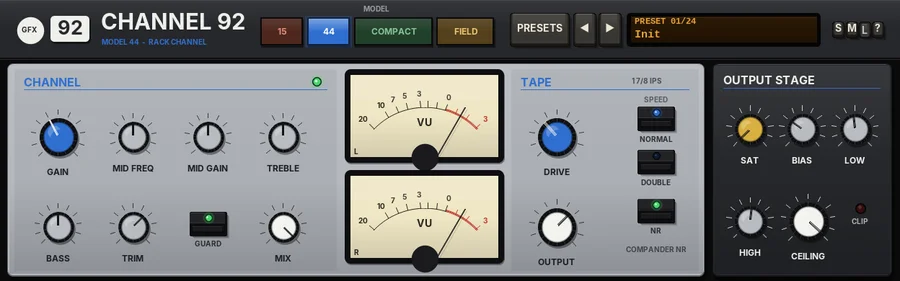
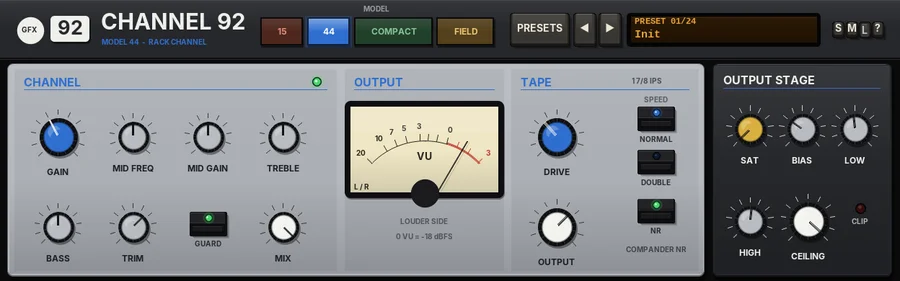
Channel 92: COMPACT automatic mono centre dip, no BAL/LEVEL; one VU on 15/44; manual and images
Claude-Session: https://claude.ai/code/session_01EwsggPNgywXX6HG8VAWiaU

Changed region(s): [[0.3733, 0.2278, 0.56, 0.968]]

diff --git a/Manuals/gfx-channel-92.html b/Manuals/gfx-channel-92.html
@@ -47,14 +47,14 @@ footer{border-top:1px solid var(--line);margin-top:40px;padding:24px 0 40px;colo
 <div class="shot"><img src="img/gfx-channel-92.webp" alt="The Channel 92 panel" loading="lazy"></div>
 <h2>Overview</h2><p>Channel 92 is the channel strip of the GFX 92 series: 90s domestic, portable and field gear - utilitarian, compact and mobile. It holds four channel strips in one chassis, and the MODEL keys choose which one is in the circuit:</p><ul><li><strong>15</strong> - the lo-fi channel, in the spirit of the early-80s ultra-portable cassette multitrackers (Model 15).</li><li><strong>44</strong> - the rack tape channel, in the spirit of the early-90s rack-mount cassette portable studios (Model 44).</li><li><strong>COMPACT</strong> - one channel of the little 12-channel desk from every 90s project studio, as a stereo channel strip (Compact 12), with a one-knob compressor.</li><li><strong>FIELD</strong> - one input channel of a battery-powered location mixer (Field 42).</li></ul><p>Each model is the original GFX plug-in, sample for sample: set the same controls and Channel 92 sounds exactly like Model 15, Model 44, one channel of Compact 12 or Field 42 (it nulls against them, with the output clip as described below). Each keeps its own faceplate, controls and layout; the 92 chassis around them adds the shared header, the presets and the output stage. Only the selected model runs, so it costs no more CPU than the original on its own.</p><h3>Reach for it for</h3><ul class="when"><li>Lo-fi cassette character on single tracks and stems (15)</li><li>Tape density and punch with a sweepable mid (44)</li><li>A clean, slightly forward desk channel with simple EQ and a one-knob compressor, or a gritty one with HOT (COMPACT)</li><li>A transformer mic pre with HPF and safety limiters for dialogue, acoustic and drum tracks (FIELD)</li><li>Trying four flavours of 90s gear on a track without swapping plug-ins</li></ul><h2>Controls</h2><h3>The 92 chassis</h3><p class="sub"><strong>The header</strong></p><dl class="ctl"><dt>92 badge, name</dt><dd>The series badge and the plug-in name; under the name, in the colour of the selected model, which model is in the circuit.</dd><dt>MODEL</dt><dd>15, 44, COMPACT or FIELD. Lit coloured keys: the lit key is the model in use (15 by default). Changing model crossfades over 20 ms, so it is click-free even while the music plays; the model you switch to starts from a clean state.</dd><dt>PRESETS</dt><dd>Opens the list of all 24 factory presets (a click on the preset display does the same). The list ends with Reset all to defaults.</dd><dt>&#9668; / &#9658;</dt><dd>Step to the previous or next preset.</dd><dt>Preset display</dt><dd>Shows the number and name of the preset in use. New instances open on Init.</dd><dt>S / M / L</dt><dd>Panel size: small, medium or large (Large is 1.3 times Medium). The panel also scales to fit the plugin window.</dd><dt>?</dt><dd>Opens a pop-up with the design credit, the GFX website address and the address of this manual. Click anywhere to close it.</dd></dl><p class="sub"><strong>OUTPUT STAGE</strong></p><p>The house output stage of the 15 and the 44, in the column at the right of their faceplates: it sits after the model, so it stays as it is when you change between them. Their own OUTPUT level comes after the band saturation, exactly as on the originals. Its soft clipper is always on (no latency); there are no mode keys. COMPACT shares only the CEILING (on its own faceplate, no band saturation); FIELD has no output stage controls: its output always clips softly at -0.3 dBFS, as part of the unit.</p><dl class="ctl"><dt>SAT</dt><dd>Band saturation, 0 - 100% (off by default): only the lows and highs are saturated, the mids stay clean, with a soft curve that loosens as the level rises.</dd><dt>BIAS</dt><dd>Shapes the saturation, 0 - 100% (30% by default): more bias adds more even (2nd) harmonics, for a warmer, rounder colour.</dd><dt>LOW / HIGH</dt><dd>Where the low and high saturation bands start: 40 - 400 Hz (120 Hz by default) and 2 - 16 kHz (6 kHz by default).</dd><dt>CEILING</dt><dd>-24 to 0 dB (-0.3 dB by default): the level the peaks are softly clipped at. The clipper starts to round the peaks off about 2 dB below it; below that it does nothing.</dd><dt>CLIP light</dt><dd>Lights red while the clipper is working.</dd></dl><p class="sub"><strong>Parameter list</strong></p><p>Every control is also in REAPER's parameter list. The names start with the model they belong to (15 Gain, 44 Mid freq, FIELD HPF ...); the shared output stage comes last. FIELD Input iron and FIELD Limiter attack / release are in the list only, as on Field 42.</p><h2>Model 15 - lo-fi channel</h2><div class="shot"><img src="img/gfx-channel-92-15.webp" alt="Channel 92 with the 15 model selected" loading="lazy"></div><h3>Overview</h3><p>Model 15 is a single channel of the classic early-80s ultra-portable cassette multitracker: a low-voltage, battery-driven preamp, a fixed broad-stroke tone stage, a sluggish tape-head saturation with a top end that closes down as the level rises, and an open, breathing hiss floor with simple single-band noise reduction.</p><p>Put it on individual stems to push them towards that compressed, boxy, warm little-recorder sound. The signal runs preamp, then tone, then tape, and MIX blends the result with the dry input.</p>
 <p class="sub"><strong>Reach for it for</strong></p><ul class="when"><li>Bedroom-demo character on drums, guitars and vocals</li><li>Warm, boxy saturation that glues transients together</li><li>Lo-fi wobble, hiss and worn-tape dropouts</li><li>Making a clean stem sit with genuinely lo-fi material</li><li>Parallel tape colour with MIX</li></ul>
-<h3>Controls</h3><p class="sub"><strong>Channel</strong></p><dl class="ctl"><dt>Signal light</dt><dd>Glows green when audio is coming out of the plugin.</dd><dt>GAIN</dt><dd>The low-voltage preamp, -6 to +24 dB (+6 dB by default). Above 0 dB it clips early and asymmetrically, smearing transients and thickening the low mids.</dd><dt>TREBLE</dt><dd>A broad high shelf at 10 kHz, -10 to +10 dB. Push it hard and the shelf itself turns a little gritty and grainy rather than staying clean.</dd><dt>BASS</dt><dd>A broad low shelf at 100 Hz, -10 to +10 dB, with the same gentle grit when pushed.</dd><dt>TRIM</dt><dd>Input level before anything else, from -24 to +12 dB.</dd><dt>GUARD</dt><dd>On by default. Gently eases very hot sources down towards about -18 dBFS average and catches fast peaks above -6 dBFS, so loud sources never overdrive the plugin. It never boosts quiet sources.</dd><dt>MIX</dt><dd>The coloured signal against the dry input, 0 - 100%.</dd></dl><p class="sub"><strong>Meters</strong></p><dl class="ctl"><dt>L / R</dt><dd>VU meters showing the left and right output.</dd></dl><p class="sub"><strong>Tape</strong></p><dl class="ctl"><dt>DRIVE</dt><dd>The tape saturation, 0 - 100% (35% by default): a sluggish magnetic memory ahead of a soft saturation curve, plus a top end that rolls off further as the level rises, gluing transients together. A small, fixed head bump around 80 Hz is always there.</dd><dt>WOW</dt><dd>Wow and flutter in the transport, 0 - 100 (25 by default): a slow wow, a slower random wander and a faint 6 Hz flutter.</dd><dt>HISS</dt><dd>The tape's own noise floor, 0 - 100 (50 by default). It ducks a little under the signal and swells back in the gaps. Each side has its own hiss.</dd><dt>AGE</dt><dd>An older, worn tape, 0 - 100 (15 by default): the top end goes further and short dropouts creep in, more often the higher you turn it.</dd><dt>OUTPUT</dt><dd>The output level, -24 to +12 dB.</dd><dt>NR</dt><dd>The simple B-type-style noise reduction, in by default: the quiet highs are lifted before the tape and taken back down after it, which lowers the hiss. Out gives the raw tape, hiss and all.</dd></dl><h3>Tips</h3><ul class="tips"><li>GAIN and DRIVE do different things: GAIN gives the preamp's early, edgy clipping, DRIVE the softer tape squash and darkening. Try one high and the other low.</li><li>On a set of stems, keep WOW low on all but one or two so the mix doesn't drift out of tune with itself.</li><li>Switching NR out is the quickest way to that hissy, open home-recording sound.</li><li>Turn MIX down to 40 - 60% to keep the attack of drums while adding the tape's body.</li></ul>
+<h3>Controls</h3><p class="sub"><strong>Channel</strong></p><dl class="ctl"><dt>Signal light</dt><dd>Glows green when audio is coming out of the plugin.</dd><dt>GAIN</dt><dd>The low-voltage preamp, -6 to +24 dB (+6 dB by default). Above 0 dB it clips early and asymmetrically, smearing transients and thickening the low mids.</dd><dt>TREBLE</dt><dd>A broad high shelf at 10 kHz, -10 to +10 dB. Push it hard and the shelf itself turns a little gritty and grainy rather than staying clean.</dd><dt>BASS</dt><dd>A broad low shelf at 100 Hz, -10 to +10 dB, with the same gentle grit when pushed.</dd><dt>TRIM</dt><dd>Input level before anything else, from -24 to +12 dB.</dd><dt>GUARD</dt><dd>On by default. Gently eases very hot sources down towards about -18 dBFS average and catches fast peaks above -6 dBFS, so loud sources never overdrive the plugin. It never boosts quiet sources.</dd><dt>MIX</dt><dd>The coloured signal against the dry input, 0 - 100%.</dd></dl><p class="sub"><strong>OUTPUT</strong></p><dl class="ctl"><dt>VU</dt><dd>One VU meter for the output: it reads the louder side, in the house calibration (a sine peaking at -18 dBFS reads 0 VU). The green light at the top of the CHANNEL section glows when audio is coming out.</dd></dl><p class="sub"><strong>Tape</strong></p><dl class="ctl"><dt>DRIVE</dt><dd>The tape saturation, 0 - 100% (35% by default): a sluggish magnetic memory ahead of a soft saturation curve, plus a top end that rolls off further as the level rises, gluing transients together. A small, fixed head bump around 80 Hz is always there.</dd><dt>WOW</dt><dd>Wow and flutter in the transport, 0 - 100 (25 by default): a slow wow, a slower random wander and a faint 6 Hz flutter.</dd><dt>HISS</dt><dd>The tape's own noise floor, 0 - 100 (50 by default). It ducks a little under the signal and swells back in the gaps. Each side has its own hiss.</dd><dt>AGE</dt><dd>An older, worn tape, 0 - 100 (15 by default): the top end goes further and short dropouts creep in, more often the higher you turn it.</dd><dt>OUTPUT</dt><dd>The output level, -24 to +12 dB.</dd><dt>NR</dt><dd>The simple B-type-style noise reduction, in by default: the quiet highs are lifted before the tape and taken back down after it, which lowers the hiss. Out gives the raw tape, hiss and all.</dd></dl><h3>Tips</h3><ul class="tips"><li>GAIN and DRIVE do different things: GAIN gives the preamp's early, edgy clipping, DRIVE the softer tape squash and darkening. Try one high and the other low.</li><li>On a set of stems, keep WOW low on all but one or two so the mix doesn't drift out of tune with itself.</li><li>Switching NR out is the quickest way to that hissy, open home-recording sound.</li><li>Turn MIX down to 40 - 60% to keep the attack of drums while adding the tape's body.</li></ul>
 <h2>Model 44 - rack channel</h2><div class="shot"><img src="img/gfx-channel-92-44.webp" alt="Channel 92 with the 44 model selected" loading="lazy"></div><h3>Overview</h3><p>Model 44 is a single channel strip in the spirit of the early-90s rack-mount cassette multitrack gear. The signal goes through a clean, high-headroom preamp, a three-band EQ with a sweepable mid, and then a tape stage: a dense magnetic saturation ceiling with a NORMAL / DOUBLE speed switch and compander noise reduction.</p><p>The preamp itself stays clean - the colour and the ceiling come from the tape. Double speed raises that ceiling, extends the top end and tightens the sub-bass, for a punchier, cleaner sound; normal speed is softer, darker and saturates earlier. The noise reduction is tuned to pump less than the earlier 80s machines.</p>
 <p class="sub"><strong>Reach for it for</strong></p><ul class="when"><li>Adding cassette-tape density and warmth to a single track</li><li>Drums and bass that need to sit tighter and punchier (DOUBLE speed)</li><li>Quick tone shaping with a sweepable mid</li><li>A softer, darker lo-fi tone (NORMAL speed)</li><li>Parallel tape colour with MIX</li></ul>
-<h3>Controls</h3><p class="sub"><strong>CHANNEL</strong></p><dl class="ctl"><dt>Signal light</dt><dd>The green light glows when audio is coming out.</dd><dt>GAIN</dt><dd>The preamp gain, -6 to +24 dB (+6 dB by default). The preamp itself stays clean; turning it up drives the tape stage harder.</dd><dt>MID FREQ</dt><dd>The centre of the sweepable mid band, 200 Hz to 5 kHz.</dd><dt>MID GAIN</dt><dd>Cut or boost at MID FREQ, -12 to +12 dB, with a fixed, fairly broad width.</dd><dt>TREBLE</dt><dd>A high shelf at 12 kHz, -10 to +10 dB.</dd><dt>BASS</dt><dd>A low shelf at 80 Hz, -10 to +10 dB.</dd><dt>TRIM</dt><dd>Input level before anything else, from -24 to +12 dB.</dd><dt>GUARD</dt><dd>On by default. GUARD gently eases very hot sources down towards about -18 dBFS average and catches fast peaks above -6 dBFS, so loud sources never overdrive the plugin. It never boosts quiet sources. The light shows when it is on.</dd><dt>MIX</dt><dd>Blends the coloured signal with the dry input, 0 to 100%. 100% is fully through the strip.</dd></dl><p class="sub"><strong>Meters</strong></p><dl class="ctl"><dt>L / R</dt><dd>VU meters showing the left and right output.</dd></dl><p class="sub"><strong>TAPE</strong></p><dl class="ctl"><dt>DRIVE</dt><dd>How hard the tape's saturation ceiling works, 0 to 100% (35% by default). More DRIVE rounds the peaks off sooner and harder, for a denser sound.</dd><dt>NORMAL / DOUBLE</dt><dd>The tape SPEED. NORMAL (1 7/8 IPS): the top end rolls off around 10 kHz and the saturation starts earlier. DOUBLE (3 3/4 IPS): the ceiling sits higher, the top end reaches about 16 kHz, the sub-bass below about 45 Hz is tightened and transients stay punchier.</dd><dt>NR</dt><dd>Compander noise reduction, in by default. It compresses the signal 2:1 with a treble lift on the way onto the tape and expands it 1:2 coming back. Because the expander follows what comes off the tape, it breathes a little, though more gently than the 80s units. Switch it off for the raw tape sound.</dd><dt>OUTPUT</dt><dd>The output level, -24 to +12 dB.</dd></dl><h3>Tips</h3><ul class="tips"><li>Set GAIN for the amount of tape colour you want, then bring OUTPUT down to match the level before you judge it.</li><li>Switch between NORMAL and DOUBLE on drums: double speed keeps the snap, normal speed softens and thickens it.</li><li>With NR in and plenty of DRIVE you can hear the compander breathe; switch NR out if you want the saturation without the movement.</li><li>Use MIX at 30-60% to add tape density under a track without losing its transients.</li></ul>
+<h3>Controls</h3><p class="sub"><strong>CHANNEL</strong></p><dl class="ctl"><dt>Signal light</dt><dd>The green light glows when audio is coming out.</dd><dt>GAIN</dt><dd>The preamp gain, -6 to +24 dB (+6 dB by default). The preamp itself stays clean; turning it up drives the tape stage harder.</dd><dt>MID FREQ</dt><dd>The centre of the sweepable mid band, 200 Hz to 5 kHz.</dd><dt>MID GAIN</dt><dd>Cut or boost at MID FREQ, -12 to +12 dB, with a fixed, fairly broad width.</dd><dt>TREBLE</dt><dd>A high shelf at 12 kHz, -10 to +10 dB.</dd><dt>BASS</dt><dd>A low shelf at 80 Hz, -10 to +10 dB.</dd><dt>TRIM</dt><dd>Input level before anything else, from -24 to +12 dB.</dd><dt>GUARD</dt><dd>On by default. GUARD gently eases very hot sources down towards about -18 dBFS average and catches fast peaks above -6 dBFS, so loud sources never overdrive the plugin. It never boosts quiet sources. The light shows when it is on.</dd><dt>MIX</dt><dd>Blends the coloured signal with the dry input, 0 to 100%. 100% is fully through the strip.</dd></dl><p class="sub"><strong>OUTPUT</strong></p><dl class="ctl"><dt>VU</dt><dd>One VU meter for the output: it reads the louder side, in the house calibration (a sine peaking at -18 dBFS reads 0 VU). The green light at the top of the CHANNEL section glows when audio is coming out.</dd></dl><p class="sub"><strong>TAPE</strong></p><dl class="ctl"><dt>DRIVE</dt><dd>How hard the tape's saturation ceiling works, 0 to 100% (35% by default). More DRIVE rounds the peaks off sooner and harder, for a denser sound.</dd><dt>NORMAL / DOUBLE</dt><dd>The tape SPEED. NORMAL (1 7/8 IPS): the top end rolls off around 10 kHz and the saturation starts earlier. DOUBLE (3 3/4 IPS): the ceiling sits higher, the top end reaches about 16 kHz, the sub-bass below about 45 Hz is tightened and transients stay punchier.</dd><dt>NR</dt><dd>Compander noise reduction, in by default. It compresses the signal 2:1 with a treble lift on the way onto the tape and expands it 1:2 coming back. Because the expander follows what comes off the tape, it breathes a little, though more gently than the 80s units. Switch it off for the raw tape sound.</dd><dt>OUTPUT</dt><dd>The output level, -24 to +12 dB.</dd></dl><h3>Tips</h3><ul class="tips"><li>Set GAIN for the amount of tape colour you want, then bring OUTPUT down to match the level before you judge it.</li><li>Switch between NORMAL and DOUBLE on drums: double speed keeps the snap, normal speed softens and thickens it.</li><li>With NR in and plenty of DRIVE you can hear the compander breathe; switch NR out if you want the saturation without the movement.</li><li>Use MIX at 30-60% to add tape density under a track without losing its transients.</li></ul>
 <h2>FIELD - location preamp (Field 42)</h2><div class="shot"><img src="img/gfx-channel-92-field.webp" alt="Channel 92 with the FIELD model selected" loading="lazy"></div><h3>Overview</h3><p>Field 42 is one input channel of a small, battery-powered location mixer of the kind used for film and broadcast sound, for a single track. It works in mono or stereo, as REAPER decides. The signal runs as on the hardware: a sweepable high-pass filter, TRIM into a transformer-balanced preamp, a fixed input "safety" limiter, polarity, FADER and PAN, then the output limiter and the custom output transformer.</p><p>At normal levels it is very clean. Push TRIM and the input transformer thickens the low end before the preamp meets its rail; the limiters catch peaks hard and fast, as they were designed to protect a recording on location. Levels are lined up as on location gear: 0 dBu = -20 dBFS = 0 on the VU.</p>
 <p class="sub"><strong>Reach for it for</strong></p><ul class="when"><li>Dialogue, voice-over and location recordings</li><li>A clean, safe preamp-and-limiter on any track</li><li>Gentle iron weight on drums, bass and acoustic instruments</li><li>Catching stray peaks before they reach the mix</li></ul>
 <h3>Controls</h3><p class="sub"><strong>INPUT</strong></p><dl class="ctl"><dt>VU meter</dt><dd>The level after the preamp, before the limiters, with VU ballistics. 0 VU = -20 dBFS.</dd><dt>PEAK</dt><dd>Lights when the preamp's output goes above -1 dBFS.</dd><dt>IN LIM / OUT LIM</dt><dd>Light when the input or output limiter is working.</dd></dl><p class="sub"><strong>PREAMP</strong></p><dl class="ctl"><dt>HPF</dt><dd>A high-pass filter, 80 to 240 Hz, 12 dB per octave, before the preamp. Fully left is OFF.</dd><dt>TRIM</dt><dd>Gain into the preamp, -20 to +40 dB.</dd><dt>IN LIMIT</dt><dd>The input safety limiter: fixed at -2 dBFS (+18 dBu), 20:1, very fast. On by default.</dd><dt>Ø</dt><dd>Polarity reverse.</dd><dt>IRON</dt><dd>The input transformer's colour (also in the parameter list).</dd></dl><p class="sub"><strong>CHANNEL</strong></p><dl class="ctl"><dt>PAN</dt><dd>Constant loudness: +3 dB at hard left or right, as on the hardware. On a stereo track it works as a balance.</dd><dt>FADER</dt><dd>Unity at 0 dB; -40 dB (OFF) to +10 dB.</dd><dt>TONE</dt><dd>A line-up oscillator that replaces the signal. The next key picks 1 kHz, 400 Hz or 100 Hz; LEVEL sets -20 to +8 dBu (0 dBu = -20 dBFS).</dd></dl><p class="sub"><strong>OUTPUT</strong></p><dl class="ctl"><dt>OFF / ON / LINK</dt><dd>The output limiter: off, each side on its own, or stereo-linked (the default).</dd><dt>LIMIT</dt><dd>The output limiter's threshold, +4 to +20 dBu (-16 to 0 dBFS), 20:1.</dd><dt>IRON</dt><dd>The output transformer: low-mid weight and a softer top when driven.</dd><dt>DRIFT</dt><dd>See Drift below.</dd><dt>OUT meters</dt><dd>The output level, left and right.</dd></dl><p class="sub"><strong>Parameter list only</strong></p><p>FIELD Input iron (the input transformer's colour, 30% by default) and FIELD Limiter attack and release (1 ms and 200 ms by default).</p><p class="sub"><strong>Drift</strong></p><p>DRIFT (0 - 100%, 50% by default) is battery sag. The supply voltage wanders slowly and droops under heavy, sustained level, so the preamp's headroom, the limiter thresholds and the transformers' drive all move a little - you hear it most when the unit is pushed. 50% is the standard amount, 100% twice that; 0% is a fresh battery.</p>
 <h3>Tips</h3><ul class="tips"><li>Set TRIM so the VU swings around 0 on the loud parts; that is where the iron starts to colour.</li><li>Use the TONE to line up levels between tracks or with other gear.</li><li>LINK keeps a stereo image steady under limiting; ON lets each side limit on its own.</li></ul>
-<p class="sub"><strong>Output</strong></p><p>The output always clips softly at -0.3 dBFS (the house clip at its default ceiling, no band saturation): it is part of the unit, with no controls. The TRIM glides to a new setting over about 20 ms, so turning it never clicks.</p><h2>COMPACT - desk channel (Compact 12)</h2><div class="shot"><img src="img/gfx-channel-92-compact.webp" alt="Channel 92 with the COMPACT model selected" loading="lazy"></div><h3>Overview</h3><p>One channel of the Compact 12 desk as a stereo channel strip: the desk's own channel circuit (its EQ, balance and LEVEL) on both sides, then the desk's summing amp with MAIN MIX, HOT and NOISE, so a track gets the clean, tight, slightly forward sound of the little desk - or its gritty edge when you run it hot. A mono source simply arrives as the same signal on both sides. A one-knob compressor, as on many compact desks (the same design as on Strip 102), sits after the EQ. With MID and COMP at 0 it sounds exactly like a stereo pair of Compact 12 summed on its own; with a mono source it sounds like a mono channel of the desk 3 dB louder at the centre (the desk pans its mono channels with constant power, the strip balances like the desk's stereo pairs).</p><h3>Reach for it for</h3><ul class="when"><li>Clean, honest channel EQ with a touch of desk character</li><li>Grit and bite on drums and bass with HOT</li><li>Quick, even level on vocals and guitars with the one-knob COMP</li><li>Stereo keys and synths through a stereo desk channel</li></ul><h3>Controls</h3><p class="sub"><strong>CHANNEL</strong></p><dl class="ctl"><dt>HI</dt><dd>A high shelf at 12 kHz, -15 to +15 dB.</dd><dt>MID</dt><dd>A peak at 2.5 kHz, -12 to +12 dB.</dd><dt>LOW</dt><dd>A low shelf at 80 Hz, -15 to +15 dB.</dd><dt>COMP</dt><dd>The one-knob compressor, 0 - 10 (0 = off, the default). Turning it up lowers the threshold (0 to -30 dB), raises the ratio (1:1 to 10:1) and adds make-up gain, so at normal levels (around -17 dBFS RMS) the overall level stays the same within about 1 dB however far you turn it. The detector hears both sides together. The small LED lights when it is taking off more than 1 dB.</dd><dt>SIGNAL</dt><dd>Glows green when signal arrives (and LEVEL is not off).</dd><dt>BAL</dt><dd>The balance, -100 to +100, as on the desk's stereo pairs: the centre leaves both sides at full level, turning it lowers the other side.</dd><dt>LEVEL</dt><dd>The channel level, -60 dB (OFF) to +10 dB, 0 dB by default.</dd></dl><p class="sub"><strong>MAIN MIX</strong></p><dl class="ctl"><dt>Meters</dt><dd>12-LED meters for the left and right output, 0 = 0 VU = -18 dBFS.</dd><dt>MAIN MIX</dt><dd>The desk's main level, -60 dB (OFF) to +10 dB, into its summing amp.</dd><dt>HOT</dt><dd>Drives the summing amp into its rails: grit, edge and a little bite, level-matched.</dd><dt>NOISE</dt><dd>Adds the desk's own hiss floor, about -84 dBFS.</dd><dt>CEILING</dt><dd>The level of the always-on soft clip at the output, -24 to 0 dB (-0.3 dB by default; shared with the 15 and the 44).</dd><dt>CLIP</dt><dd>Lights red while the clip is working.</dd></dl><h3>Tips</h3><ul class="tips"><li>HOT on a drum bus or bass is the classic 90s project-studio grit; switch it in and out to hear it.</li><li>COMP between 2 and 4 evens out a vocal or acoustic guitar without sounding squashed; past 7 it pumps on purpose.</li><li>Mute and solo the track in REAPER as usual: the strip has no MUTE of its own.</li></ul><h2>Presets</h2><p>Every preset of the three originals, named by model. Choosing one also selects its model. Like the originals, presets leave the output stage (and the controls each original left alone) as they are.</p><dl class="ctl"><dt>Init</dt><dd>The 15 at its default settings: the state a new instance opens in.</dd><dt>15: Bedroom Demo</dt><dd>The standard setting with a touch more TREBLE, BASS and DRIVE, NR in.</dd><dt>15: Hot and Boxy</dt><dd>The preamp pushed to +15 dB into 70% tape drive, with more hiss and age.</dd><dt>15: No NR, Open Tape</dt><dd>Noise reduction out and the hiss turned well up.</dd><dt>15: Worn-out Portable</dt><dd>Heavy wow, lots of age and dropouts, a little extra bass.</dd><dt>15: Clean-ish Portable</dt><dd>Preamp at 0 dB, light drive, wow, hiss and age.</dd><dt>44: Clean Double Speed</dt><dd>Double speed with light drive, a small treble lift and NR in.</dd><dt>44: Normal Speed Warm</dt><dd>Normal speed, more gain, a little low-mid and bass lift, NR in.</dd><dt>44: Rack Punch</dt><dd>Double speed, 14 dB of gain and 55% drive, with a 2.5 kHz and treble lift.</dd><dt>44: Scooped Mids</dt><dd>Double speed with a 4 dB cut at 600 Hz and a touch of treble and bass.</dd><dt>44: No NR</dt><dd>Normal speed with the noise reduction out: the raw tape.</dd><dt>COMPACT: Clean Channel</dt><dd>Flat EQ, COMP off, HOT and NOISE off, MAIN MIX at 0 dB.</dd><dt>COMPACT: Hot Channel</dt><dd>Flat, with HOT on: the summing amp pushed into its rails.</dd><dt>COMPACT: Hot and Noisy</dt><dd>HOT and the desk NOISE: the real thing.</dd><dt>COMPACT: Vocal Presence</dt><dd>HI +2, MID +3, LOW -3 dB with COMP at 4: forward and even.</dd><dt>COMPACT: Keys</dt><dd>HI +2, LOW +1 dB, a light COMP at 2.</dd><dt>FIELD: Init</dt><dd>Clean: HPF off, unity gain, both limiters on.</dd><dt>FIELD: Dialogue Boom</dt><dd>HPF at 120 Hz, +6 dB.</dd><dt>FIELD: Lavalier</dt><dd>HPF at 160 Hz to clear clothing rustle and rumble.</dd><dt>FIELD: Acoustic</dt><dd>HPF at 85 Hz, a little more iron.</dd><dt>FIELD: Drum Room</dt><dd>+12 dB into the iron, output limiter at +14 dBu.</dd><dt>FIELD: Kick and Bass</dt><dd>HPF off, heavy iron, limiter per side.</dd><dt>FIELD: Hot Field</dt><dd>+18 dB, lots of iron, a low output limit: dense and driven.</dd><dt>FIELD: Safety Net</dt><dd>Unity gain with the output limiter at +10 dBu: a quiet, safe ceiling.</dd><dt>Reset all to defaults</dt><dd>(Last in the list.) Every control of every model, the MODEL (back to 15) and the output stage to their starting values.</dd></dl><p>Changing preset on the 15 is click-free: the tape ducks out for a moment, the new settings come in at silence and it fades back in (as on Model 15).</p><h2>Tips</h2><ul class="tips"><li>To compare the models on a track, set the OUTPUT (15 / 44) or FADER (FIELD) so they play at the same level, then switch MODEL while the track loops: the 20 ms crossfade makes it a fair A/B.</li><li>Each model remembers its own settings while you use another, so you can set them all up and pick the one that fits.</li><li>The output stage stays put when you change between 15 and 44; the soft clip is always there as a safety net on every model.</li><li>Only FIELD drifts (battery sag); the 15 has its own wow and flutter instead.</li></ul>
+<p class="sub"><strong>Output</strong></p><p>The output always clips softly at -0.3 dBFS (the house clip at its default ceiling, no band saturation): it is part of the unit, with no controls. The TRIM glides to a new setting over about 20 ms, so turning it never clicks.</p><h2>COMPACT - desk channel (Compact 12)</h2><div class="shot"><img src="img/gfx-channel-92-compact.webp" alt="Channel 92 with the COMPACT model selected" loading="lazy"></div><h3>Overview</h3><p>One channel of the Compact 12 desk as a stereo channel strip: the desk's own channel EQ on both sides, then the desk's summing amp with MAIN MIX, HOT and NOISE, so a track gets the clean, tight, slightly forward sound of the little desk - or its gritty edge when you run it hot. Level, pan, mute and solo are left to REAPER's track. A one-knob compressor, as on many compact desks (the same design as on Strip 102), sits after the EQ.</p><p>Mono or stereo is automatic. When the two sides carry the same signal (a mono source) the strip treats it as one of the desk's mono channels and sits it 3 dB down, as the desk does at the centre of its pan; a stereo source passes at full level, as on the desk's stereo pairs. The change glides in or out over about 50 ms, so it never clicks. With COMP at 0 it sounds exactly like that mono channel, or that stereo pair, of Compact 12 summed on its own (with MID at 0 for a stereo pair, which has no MID on the desk).</p><h3>Reach for it for</h3><ul class="when"><li>Clean, honest channel EQ with a touch of desk character</li><li>Grit and bite on drums and bass with HOT</li><li>Quick, even level on vocals and guitars with the one-knob COMP</li><li>Stereo keys and synths through a stereo desk channel</li></ul><h3>Controls</h3><p class="sub"><strong>CHANNEL</strong></p><dl class="ctl"><dt>HI</dt><dd>A high shelf at 12 kHz, -15 to +15 dB.</dd><dt>MID</dt><dd>A peak at 2.5 kHz, -12 to +12 dB.</dd><dt>LOW</dt><dd>A low shelf at 80 Hz, -15 to +15 dB.</dd><dt>COMP</dt><dd>The one-knob compressor, 0 - 10 (0 = off, the default). Turning it up lowers the threshold (0 to -30 dB), raises the ratio (1:1 to 10:1) and adds make-up gain, so at normal levels (around -17 dBFS RMS) the overall level stays the same within about 1 dB however far you turn it. The detector hears both sides together.</dd><dt>SIGNAL</dt><dd>Glows green when signal arrives.</dd><dt>MONO -3 dB</dt><dd>Lights while the strip hears a mono source and applies the desk's 3 dB centre dip.</dd><dt>COMP (light)</dt><dd>Lights when the compressor is taking off more than 1 dB.</dd></dl><p class="sub"><strong>MAIN MIX</strong></p><dl class="ctl"><dt>Meters</dt><dd>12-LED meters for the left and right output, 0 = 0 VU = -18 dBFS.</dd><dt>MAIN MIX</dt><dd>The desk's main level, -60 dB (OFF) to +10 dB, into its summing amp.</dd><dt>HOT</dt><dd>Drives the summing amp into its rails: grit, edge and a little bite, level-matched.</dd><dt>NOISE</dt><dd>Adds the desk's own hiss floor, about -84 dBFS.</dd><dt>CEILING</dt><dd>The level of the always-on soft clip at the output, -24 to 0 dB (-0.3 dB by default; shared with the 15 and the 44).</dd><dt>CLIP</dt><dd>Lights red while the clip is working.</dd></dl><h3>Tips</h3><ul class="tips"><li>HOT on a drum bus or bass is the classic 90s project-studio grit; switch it in and out to hear it.</li><li>COMP between 2 and 4 evens out a vocal or acoustic guitar without sounding squashed; past 7 it pumps on purpose.</li><li>Set the level, pan and mutes on REAPER's track as usual: the strip has no LEVEL, BAL or MUTE of its own.</li></ul><h2>Presets</h2><p>Every preset of the three originals, named by model. Choosing one also selects its model. Like the originals, presets leave the output stage (and the controls each original left alone) as they are.</p><dl class="ctl"><dt>Init</dt><dd>The 15 at its default settings: the state a new instance opens in.</dd><dt>15: Bedroom Demo</dt><dd>The standard setting with a touch more TREBLE, BASS and DRIVE, NR in.</dd><dt>15: Hot and Boxy</dt><dd>The preamp pushed to +15 dB into 70% tape drive, with more hiss and age.</dd><dt>15: No NR, Open Tape</dt><dd>Noise reduction out and the hiss turned well up.</dd><dt>15: Worn-out Portable</dt><dd>Heavy wow, lots of age and dropouts, a little extra bass.</dd><dt>15: Clean-ish Portable</dt><dd>Preamp at 0 dB, light drive, wow, hiss and age.</dd><dt>44: Clean Double Speed</dt><dd>Double speed with light drive, a small treble lift and NR in.</dd><dt>44: Normal Speed Warm</dt><dd>Normal speed, more gain, a little low-mid and bass lift, NR in.</dd><dt>44: Rack Punch</dt><dd>Double speed, 14 dB of gain and 55% drive, with a 2.5 kHz and treble lift.</dd><dt>44: Scooped Mids</dt><dd>Double speed with a 4 dB cut at 600 Hz and a touch of treble and bass.</dd><dt>44: No NR</dt><dd>Normal speed with the noise reduction out: the raw tape.</dd><dt>COMPACT: Clean Channel</dt><dd>Flat EQ, COMP off, HOT and NOISE off, MAIN MIX at 0 dB.</dd><dt>COMPACT: Hot Channel</dt><dd>Flat, with HOT on: the summing amp pushed into its rails.</dd><dt>COMPACT: Hot and Noisy</dt><dd>HOT and the desk NOISE: the real thing.</dd><dt>COMPACT: Vocal Presence</dt><dd>HI +2, MID +3, LOW -3 dB with COMP at 4: forward and even.</dd><dt>COMPACT: Keys</dt><dd>HI +2, LOW +1 dB, a light COMP at 2.</dd><dt>FIELD: Init</dt><dd>Clean: HPF off, unity gain, both limiters on.</dd><dt>FIELD: Dialogue Boom</dt><dd>HPF at 120 Hz, +6 dB.</dd><dt>FIELD: Lavalier</dt><dd>HPF at 160 Hz to clear clothing rustle and rumble.</dd><dt>FIELD: Acoustic</dt><dd>HPF at 85 Hz, a little more iron.</dd><dt>FIELD: Drum Room</dt><dd>+12 dB into the iron, output limiter at +14 dBu.</dd><dt>FIELD: Kick and Bass</dt><dd>HPF off, heavy iron, limiter per side.</dd><dt>FIELD: Hot Field</dt><dd>+18 dB, lots of iron, a low output limit: dense and driven.</dd><dt>FIELD: Safety Net</dt><dd>Unity gain with the output limiter at +10 dBu: a quiet, safe ceiling.</dd><dt>Reset all to defaults</dt><dd>(Last in the list.) Every control of every model, the MODEL (back to 15) and the output stage to their starting values.</dd></dl><p>Changing preset on the 15 is click-free: the tape ducks out for a moment, the new settings come in at silence and it fades back in (as on Model 15).</p><h2>Tips</h2><ul class="tips"><li>To compare the models on a track, set the OUTPUT (15 / 44) or FADER (FIELD) so they play at the same level, then switch MODEL while the track loops: the 20 ms crossfade makes it a fair A/B.</li><li>Each model remembers its own settings while you use another, so you can set them all up and pick the one that fits.</li><li>The output stage stays put when you change between 15 and 44; the soft clip is always there as a safety net on every model.</li><li>Only FIELD drifts (battery sag); the 15 has its own wow and flutter instead.</li></ul>
 <p class="file">File: gfx-channel-92.jsfx</p></section></main>
 <footer><div class="wrap">GFX (Garden FX) - free JSFX plug-ins for REAPER. Designed by JGWizrad. <a href="https://www.gardenfx.uk/">https://www.gardenfx.uk/</a></div></footer></body></html>
